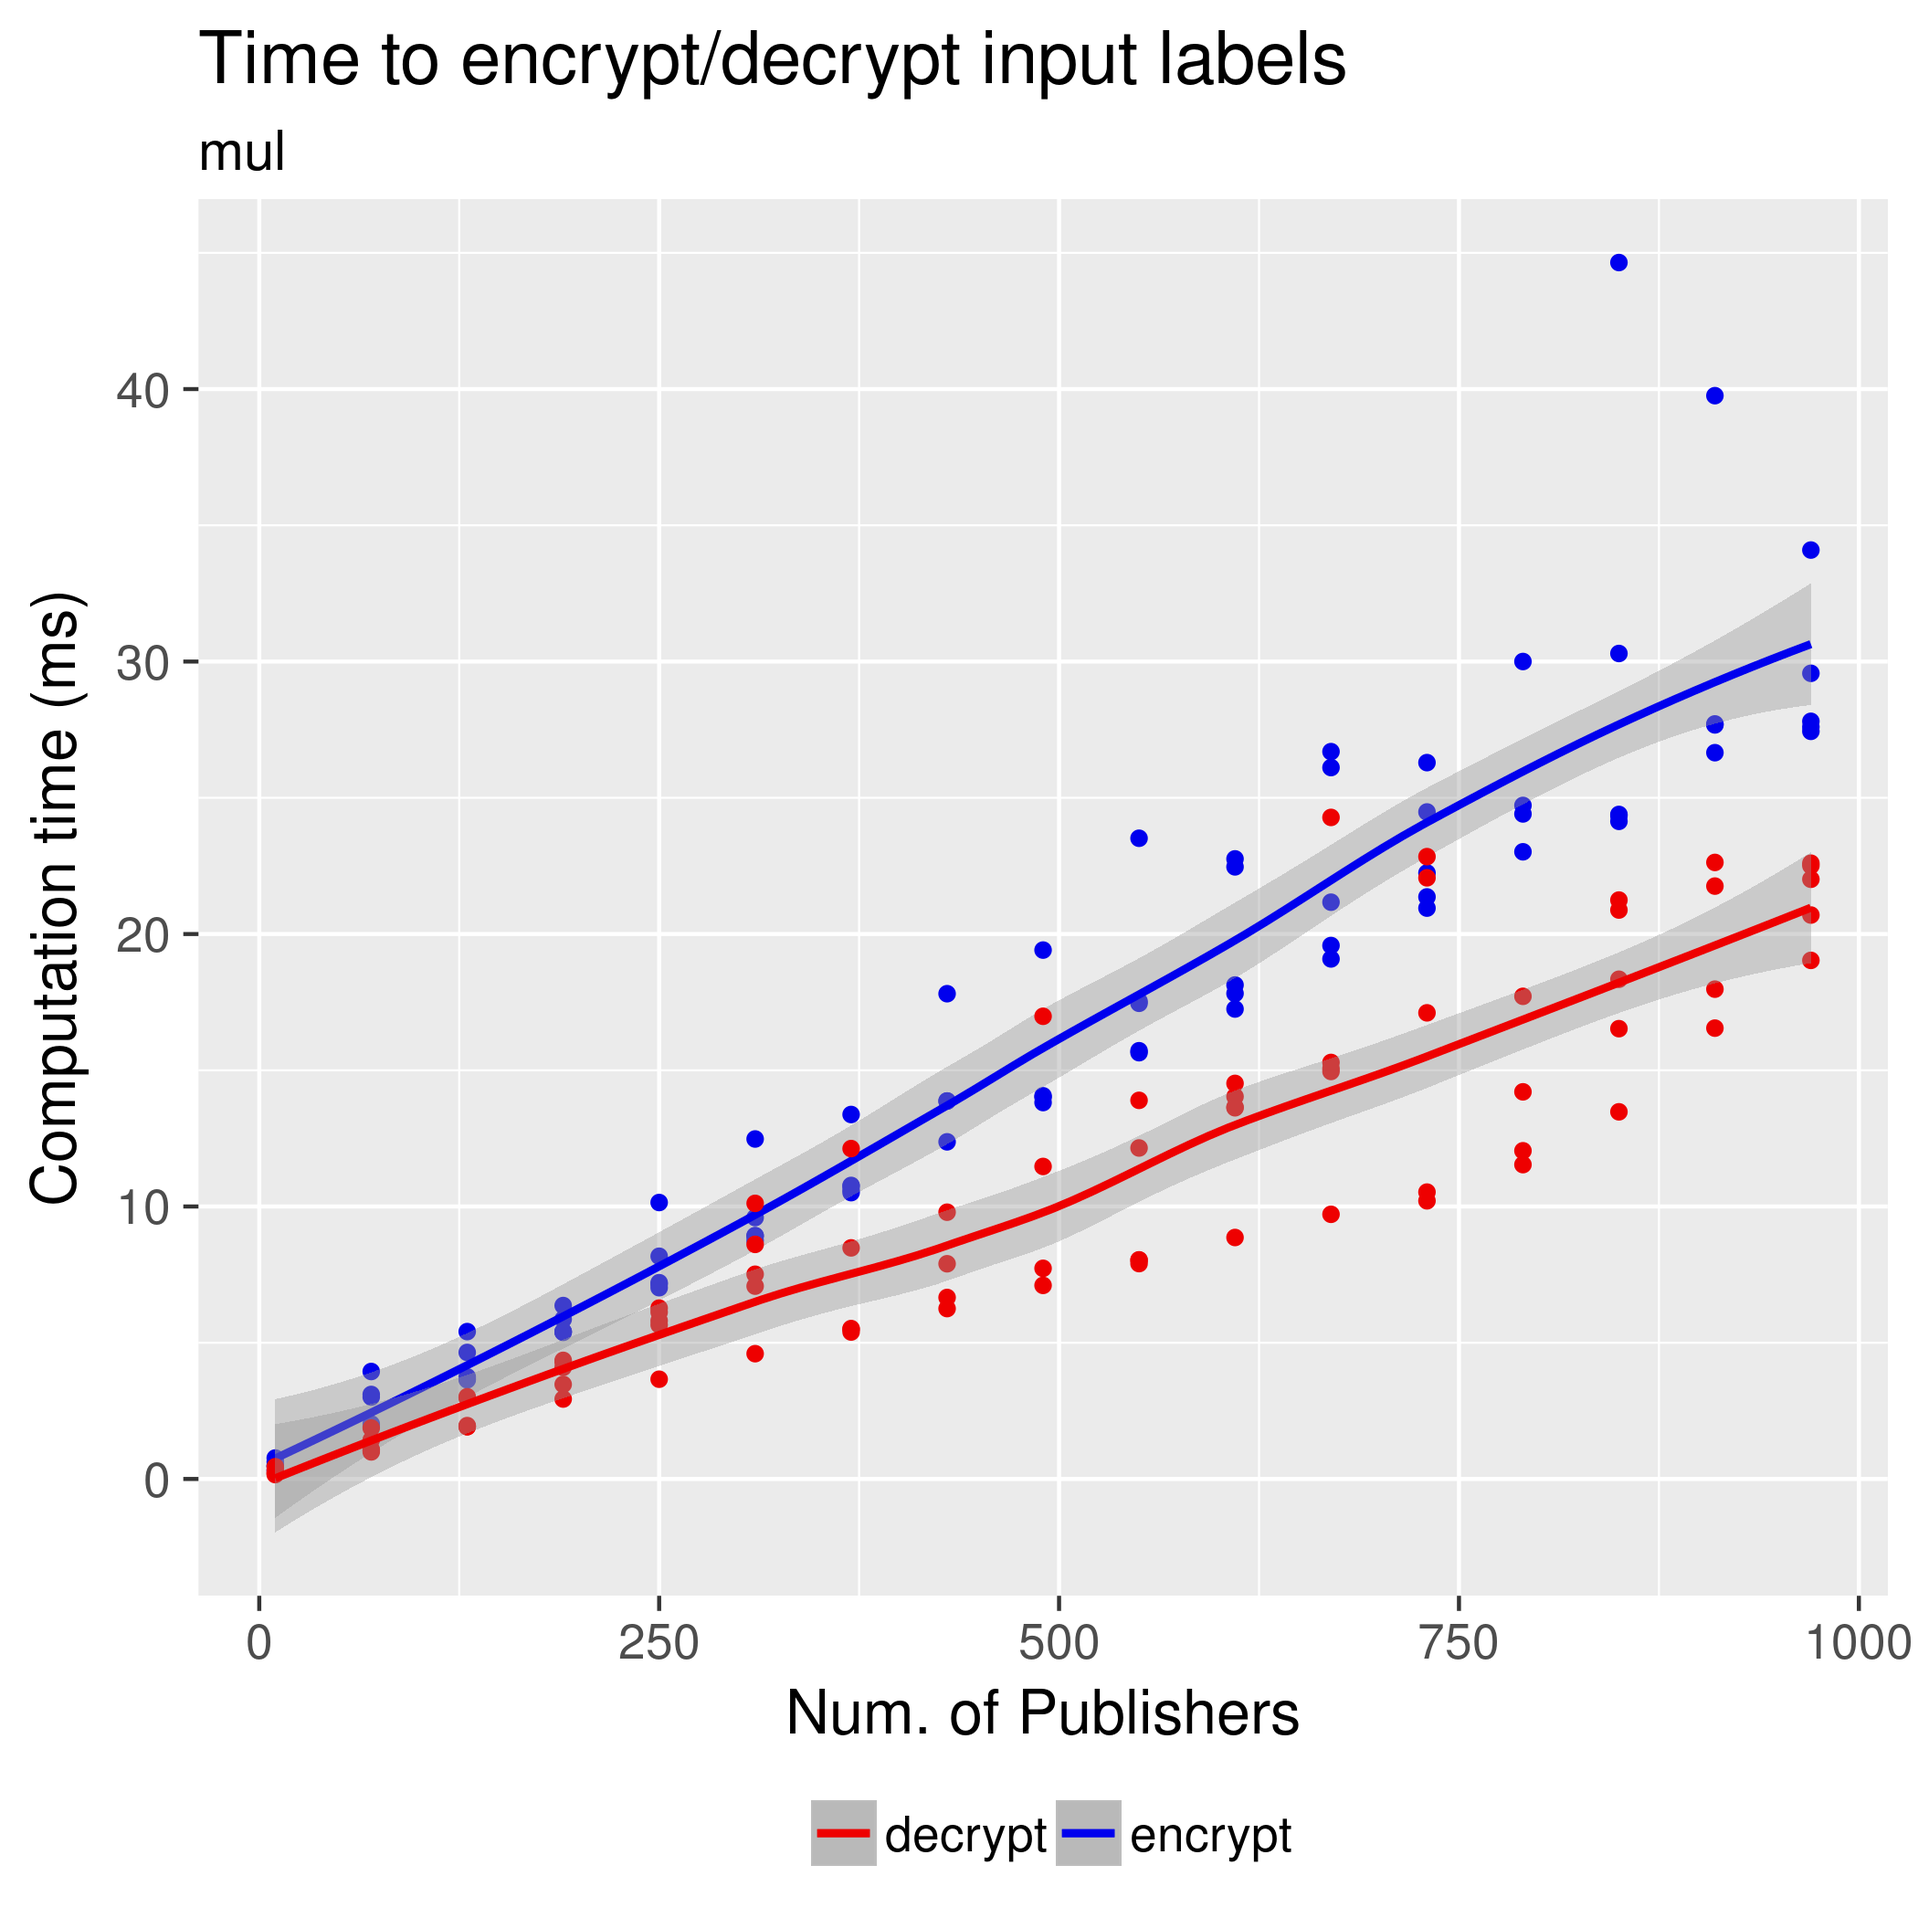
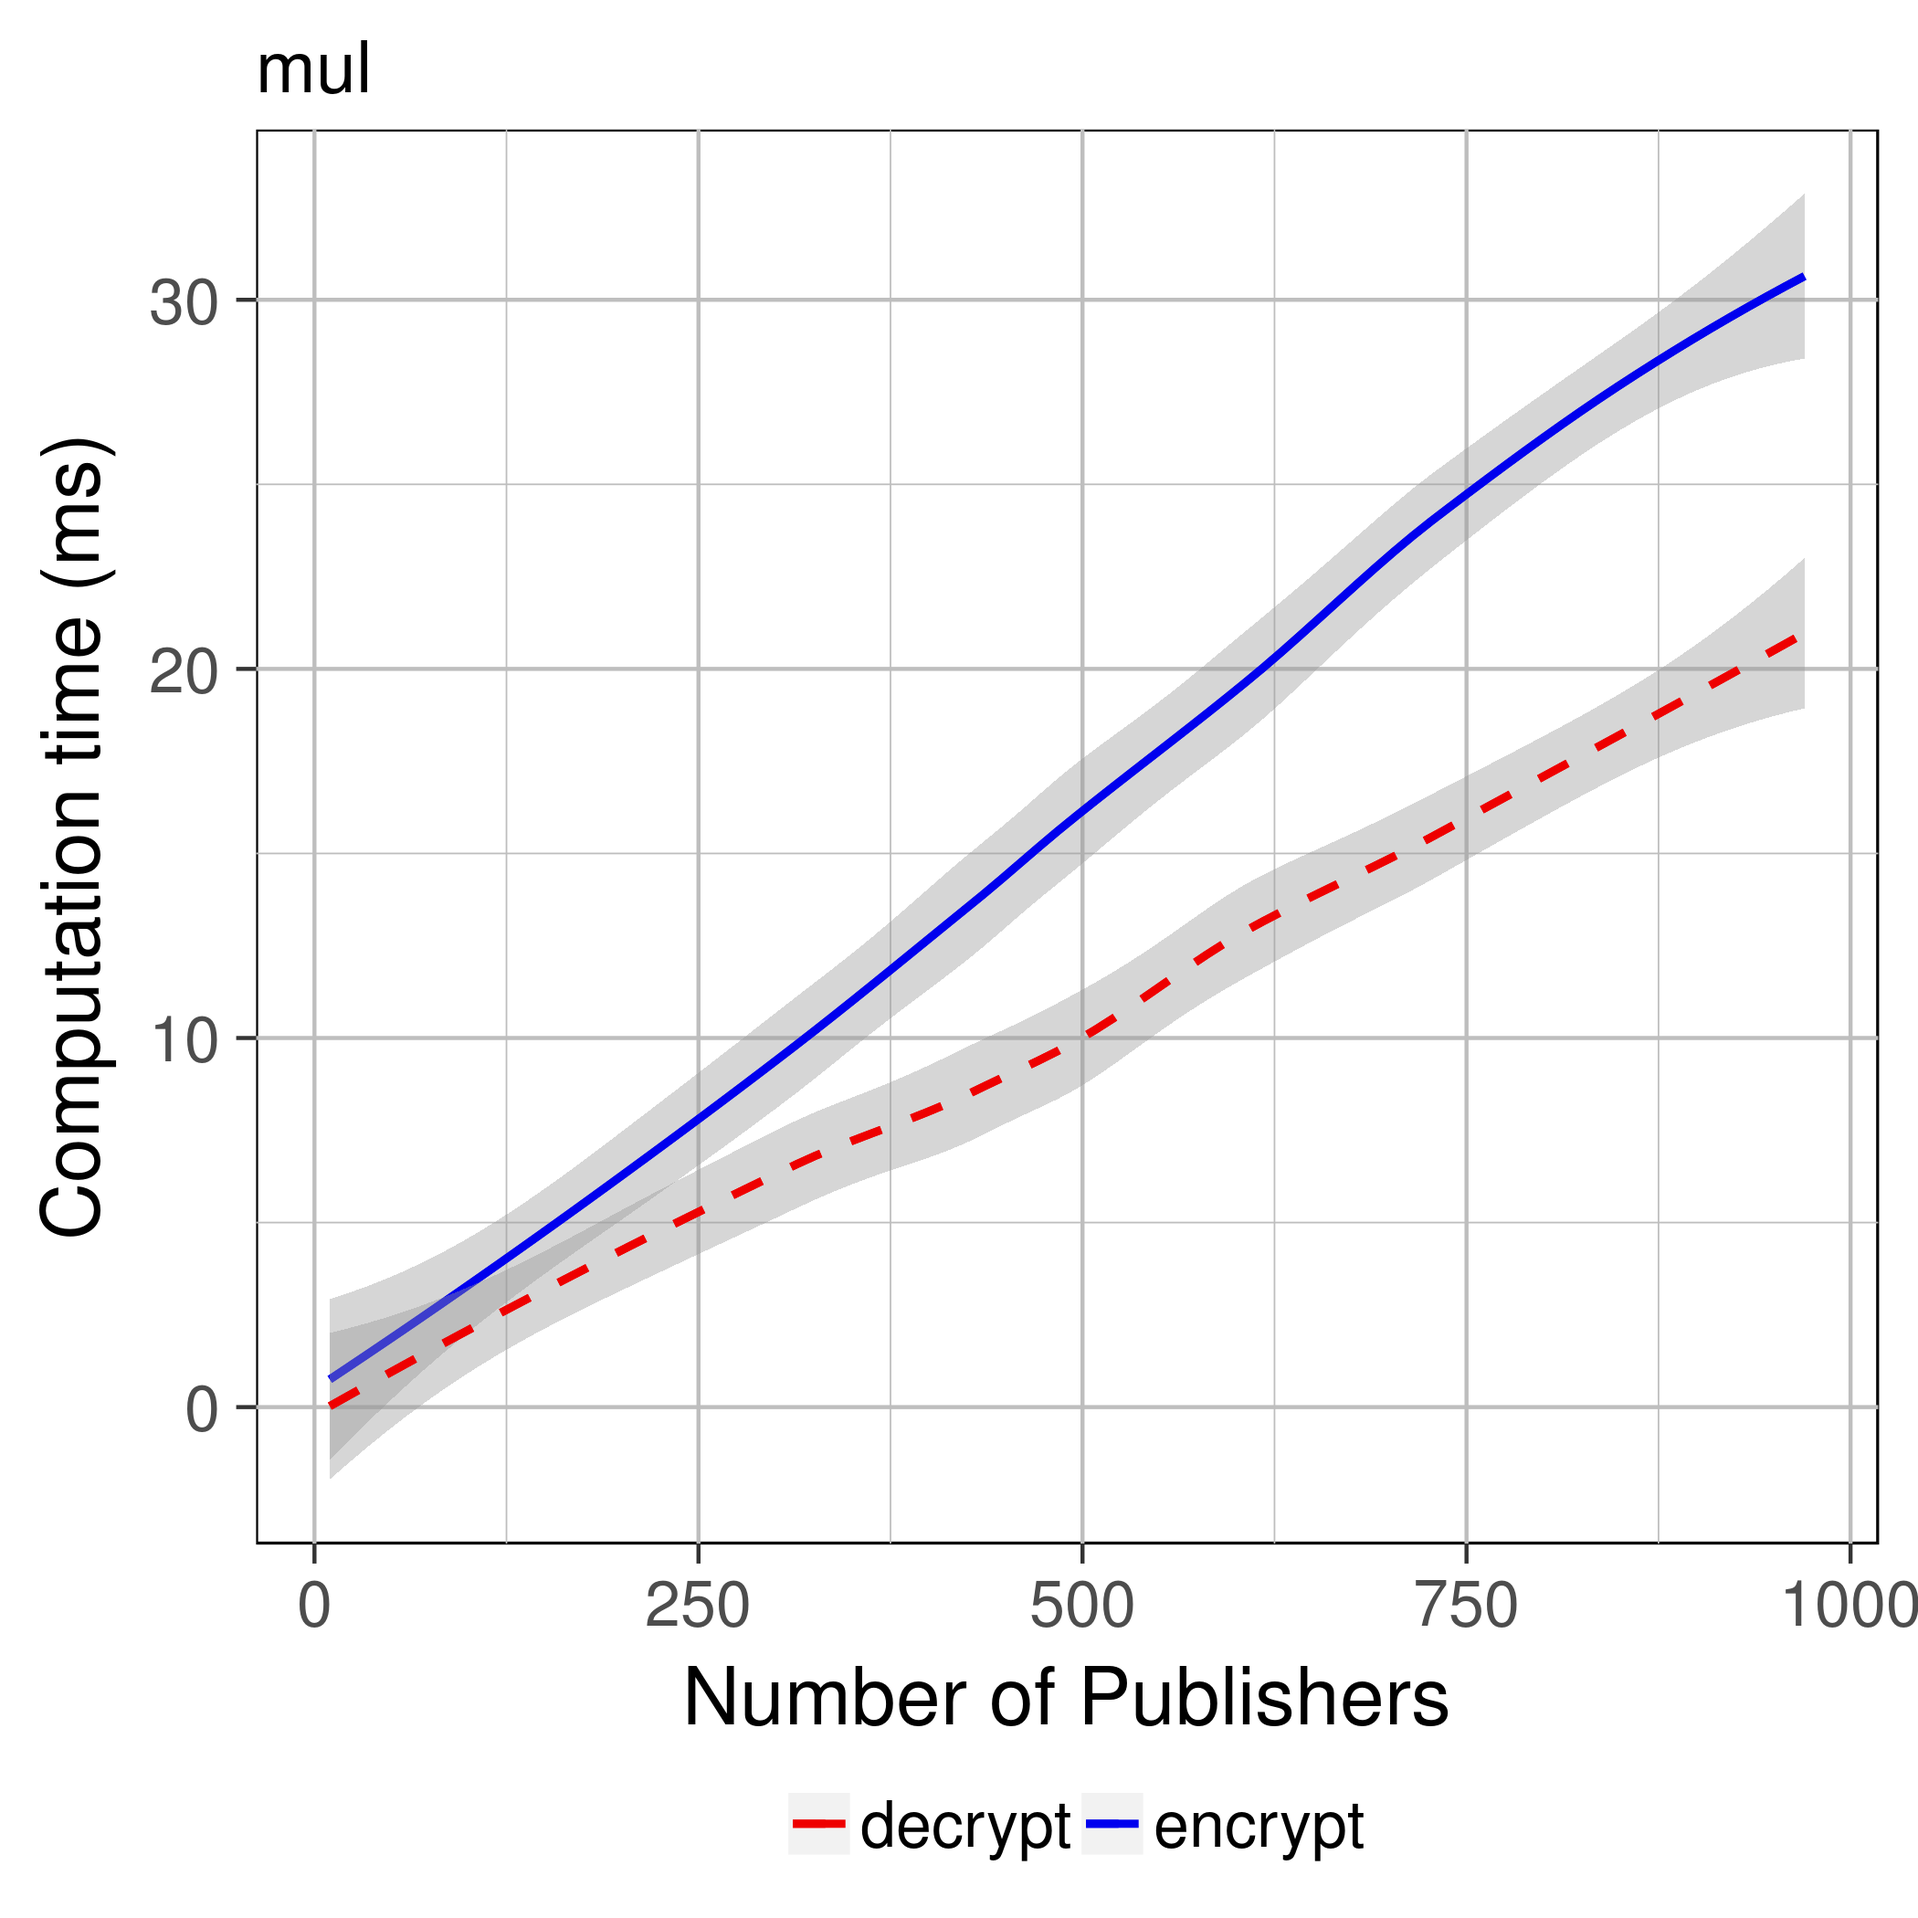
Extend system, improve plots

diff --git a/system.tex b/system.tex
@@ -42,9 +42,7 @@ data encoded in base64.  A possible improvement in performance and bandwidth
 usage would consist on replacing this encoding for a binary one such as
 Protocol Buffers.
 
-% TODO: Add reference to Protocol Buffers.  Add reference to JSON?
-
-\paragraph{Extending \libgarble.}
+\subsection{Extending \libgarble.}
 
 \libgarble{} is a garbling library written in C based on \emph{JustGarble} that
 is in current development.  It extends \emph{JustGarble} by adding two
@@ -81,7 +79,17 @@ two's complement to represent such numbers, which work straightforward for
 addition and integer multiplication but require special changes for fixed point
 multiplication, division and min/max.
 
-\paragraph{High level language to build circuits.}
+Whereas expanding \textbf{multiplication} and \textbf{min/max} to support
+signed fixed point numbers was not hard (for multiplication we need to fix the
+scaling of the result and for min/max we need to figure out the signedness of
+the inputs), implementing \textbf{division} becomes a challenge.  Most of the
+fast division algorithms are not fit for combinational circuits, which is a
+constraint for the garbled circuits, because they assume circuit loops which we
+will need to unroll, among other optimizations.  For this reason we implemented
+the simplest non-optimized division algorithm: division by repeated subtraction
+with a fixed number of iterations (assuming the worst case).
+
+\subsection{High level language to build circuits.}
 
 While \libgarble{} exposes the functions needed to build circuits corresponding
 to the functions we are interested in, the process becomes cumbersome and error
@@ -131,7 +139,7 @@ Four our implementation we decided to use the same representation for all
 numerical values: two's complement fixed point 32 bit numbers, with 26 bits for
 the integer part and 8 bits for the decimal part.
 
-\paragraph{Broker and Third Party.}
+\subsection{Broker and Third Party.}
 
 The Broker and the Third Party have been written in the Go programming
 language.  The choice of go was motivated on one hand due to the provided
@@ -142,8 +150,6 @@ of both entities.  On the other hand, this language offers the good performance
 of a compiled language with the benefits of memory safety (which is very
 welcomed when dealing with dynamic data structures).
 
-% TODO: Add golang reference?
-
 The communication between the Broker and Third Party (to request the garbling
 of a circuit for Publishers inputs at some particular rounds) happens over RPC
 synchronously.
@@ -151,7 +157,8 @@ synchronously.
 Implementation wise, the Broker requires a regular \MQTT{} Broker server
 {reference: https://github.com/jeffallen/mqtt} with the minor modification that
 any received message whose topic starts with a name space reserved for our
-protocol, will be handled according to the protocol description instead of being forwarded to the subscribers of that topic.
+protocol, will be handled according to the protocol description instead of
+being forwarded to the subscribers of that topic.
 
 The Broker and Third Party are required to maintain replicated data structures
 to store information of every Publisher, Subscriber and function.  Our design
@@ -169,7 +176,7 @@ corresponding publisher ratchet key round, and of requesting the garbling of
 circuits to the Third Party (for those particular Publishers values rounds) to
 evaluate the garbled circuit and send the result to the subscribed Subscribers.
 
-\paragraph{Publisher and Subscriber.}
+\subsection{Publisher and Subscriber.}
 
 The Publisher has been written in C in order to minimize its memory footprint
 as well as its resource consumption, considering that the code may be running
@@ -191,7 +198,7 @@ Broker and Third Party via \MQTT{} messages published and received at a unique
 per-device specific topic.  The device specific topic is formed using the
 Client's (Subscriber or Publisher) public key.
 
-\paragraph{Identity Gates for FreeXOR Compatibility.}
+\subsection{Identity Gates for FreeXOR Compatibility.}
 
 The free XOR optimization in garbled circuits require that for every wire, the
 XOR of the label for bit 0 and bit 1 be a unique secret constant \emph{delta}
@@ -210,7 +217,7 @@ inputs.
 
 % OTHER STUFF
 
-\paragraph{Cryptography choices}
+\subsection{Cryptographic choices}
 
 For all the cryptographic operations we have used the \emph{libsodium} C
 library {reference: https://download.libsodium.org/doc/} which is a fork of
@@ -230,7 +237,16 @@ In particular, the library makes the following choices for the primitives we use
     \emph{Curve25519} curve (that is, \emph{X25519}) is used to obtain a shared
     secret, from which cryptographically secure keys are derived by applying
     the \emph{BLAKE2B-512} hash function.
-  \item \textbf{Encryption}: The \emph{XSalsa20} stream cipher is used for
+  \item \textbf{Encryption}: The \emph{ChaCha20} stream cipher is used for
     encryption with \emph{Poly1305} MAC to provide authenticity.
   \item \textbf{CPRNG}: Uses the \emph{ChaCha20} stream cipher.
 \end{itemize}
+
+Even though \emph{libsodium} allows us to use \emph{AES} for encryption, we
+choose to stick with \emph{ChaCha20} because it is faster in software-only
+implementations (which is the only option available in many IoT devices) and
+because it is not sensitive to cache-collision timing attacks by design.
+
+The construction \emph{ChaCha20-Poly1305} has also been proposed as a standard
+choice of ciphersuit in the upcoming TLS version 1.3, which gives us further
+confidence in the decision to use it in our protocol.

diff --git a/evaluation.tex b/evaluation.tex
@@ -20,34 +20,64 @@ different servers.
 
 We have selected 5 numerical operations of varying complexity (\emph{summation,
 multiplicatory, mean, variance, minimum}) to evaluate the cost of the different
-parts of our implementation.  We securely evaluate these functions over the values (encoded as 32 bit fixed point numbers) received from a variable number of Publishers.
+parts of our implementation.  We securely evaluate these functions over the
+values (encoded as 32 bit fixed point numbers) received from a variable number
+of Publishers.
+
+% TODO: Indicate the number of experiments per value
 
 % Plots
+\begin{figure*}
+    \centering
+    \begin{subfigure}[b]{0.32\textwidth}
+        \includegraphics[width=\textwidth]{plots/garble.png}
+        \caption{Garble}
+        \label{fig:garble-time}
+    \end{subfigure}
+    ~ %add desired spacing between images, e. g. ~, \quad, \qquad, \hfill etc.
+    \begin{subfigure}[b]{0.32\textwidth}
+        \includegraphics[width=\textwidth]{plots/eval.png}
+        \caption{Evaluate}
+        \label{fig:eval-time}
+    \end{subfigure}
+    ~ %add desired spacing between images, e. g. ~, \quad, \qquad, \hfill etc.
+    \begin{subfigure}[b]{0.32\textwidth}
+        \includegraphics[width=\textwidth]{plots/send.png}
+        \caption{Send}
+        \label{fig:send-time}
+    \end{subfigure}
+    \caption{Mean time required for garbling, evaluating and sending the
+    garbled circuit to the Broker for each function in the microbenchmark, with
+    a 95\% confidence intervals of the samples obtained in the evaluation shown
+    in gray.  Sending includes the marshaling and unmarshaling of the garbled
+    circuit and associated data structures.}\label{fig:circuit-times}
+\end{figure*}
+
 
 \begin{figure}
-  \includegraphics[width=0.5\textwidth]{plots/gates_log.png}
+  \includegraphics[width=0.45\textwidth]{plots/nonxor_gates_log.png}
   \caption{Gates count per function used in the microbenchmarks.}
 \end{figure}
 
 \begin{figure}
-  \includegraphics[width=0.5\textwidth]{plots/enc_dec_inputs.png}
+  \includegraphics[width=0.45\textwidth]{plots/enc_dec_inputs.png}
   \caption{Time spent garbling and evaluating the identity input gates.}
 \end{figure}
 
-\begin{figure}
-  \includegraphics[width=0.5\textwidth]{plots/sum_circuit_2017-05-15.png}
-  \caption{Time spent garbling the circuit, sending the result to the Broker and evaluating it.}
-\end{figure}
+%\begin{figure}
+%  \includegraphics[width=0.45\textwidth]{plots/sum_circuit_2017-05-15.png}
+%  \caption{Time spent garbling the circuit, sending the result to the Broker and evaluating it.}
+%\end{figure}
 
 %\begin{figure}
-%  \includegraphics[width=0.5\textwidth]{plots/sum_circuit_onepub_2017-05-13.png}
+%  \includegraphics[width=0.45\textwidth]{plots/sum_circuit_onepub_2017-05-13.png}
 %  \caption{Time spent garbling the circuit, sending the result to the Broker
 %  and evaluating it removing the overhead of handling the Publishers
 %  connections.}
 %\end{figure}
 
 \begin{figure}
-  \includegraphics[width=0.5\textwidth]{plots/size_log.png}
+  \includegraphics[width=0.45\textwidth]{plots/size_log.png}
   \caption{Size of the garbled circuit and the associated date required by the
   Broker to evaluate it.}
 \end{figure}
@@ -57,16 +87,38 @@ parts of our implementation.  We securely evaluate these functions over the valu
 % TODO: 1. Environmental Berkeley indor sensing data, correlation
 \paragraph{Correlation of two data streams}
 
+% Questions: How many data points to use?
+
 % TODO: 2. Road Volume sensor traffic, evaluation of the expected time to follow a path
 \paragraph{Estimation of time required to follow a path with traffic}
+
+% http://rtmap.metro.net/ <- Not working (2017-05-15).
 
 % TODO: 3. LAX parking lot dataset, statistics
 \paragraph{Continuous statistics of incoming data}
 
+% https://data.lacity.org/dataset/Los-Angeles-International-Airport-LAX-Parking-Lots/dik5-hwp6
+% The dataset provides at a frequency of every 5 minutes and for every one of
+% the 9 parking lots: total, occupied and free parking spaces.
+
+% Ideas: mean, max, min, var over a day (of a specific parking lot for every read).
+%   That's 17280 values per day.
+% Which parking lot had more free spots in average during a day.
+
 % TODO: 4. Turonet, wireless propagation constant, linear regression
 \paragraph{One dimensional linear regression}
 
+% The dataset provides 2.3 million readings collected from sensors with the
+% following values: temperature (degree Celcius), humidity (0-100%), light
+% (Lux: 0-100000), identified by sensor ID.
+
+% Ideas: correlation temperature~humidity, temperature~light.
+% Questions: How many data points to use?
+% Graph: varying number of points, do sampling
+
 % TODO: 5. Smart bill, monthly electricity bill with different cost per hour of the day / threshold.
+
+% ???
 
 % Plots
 
